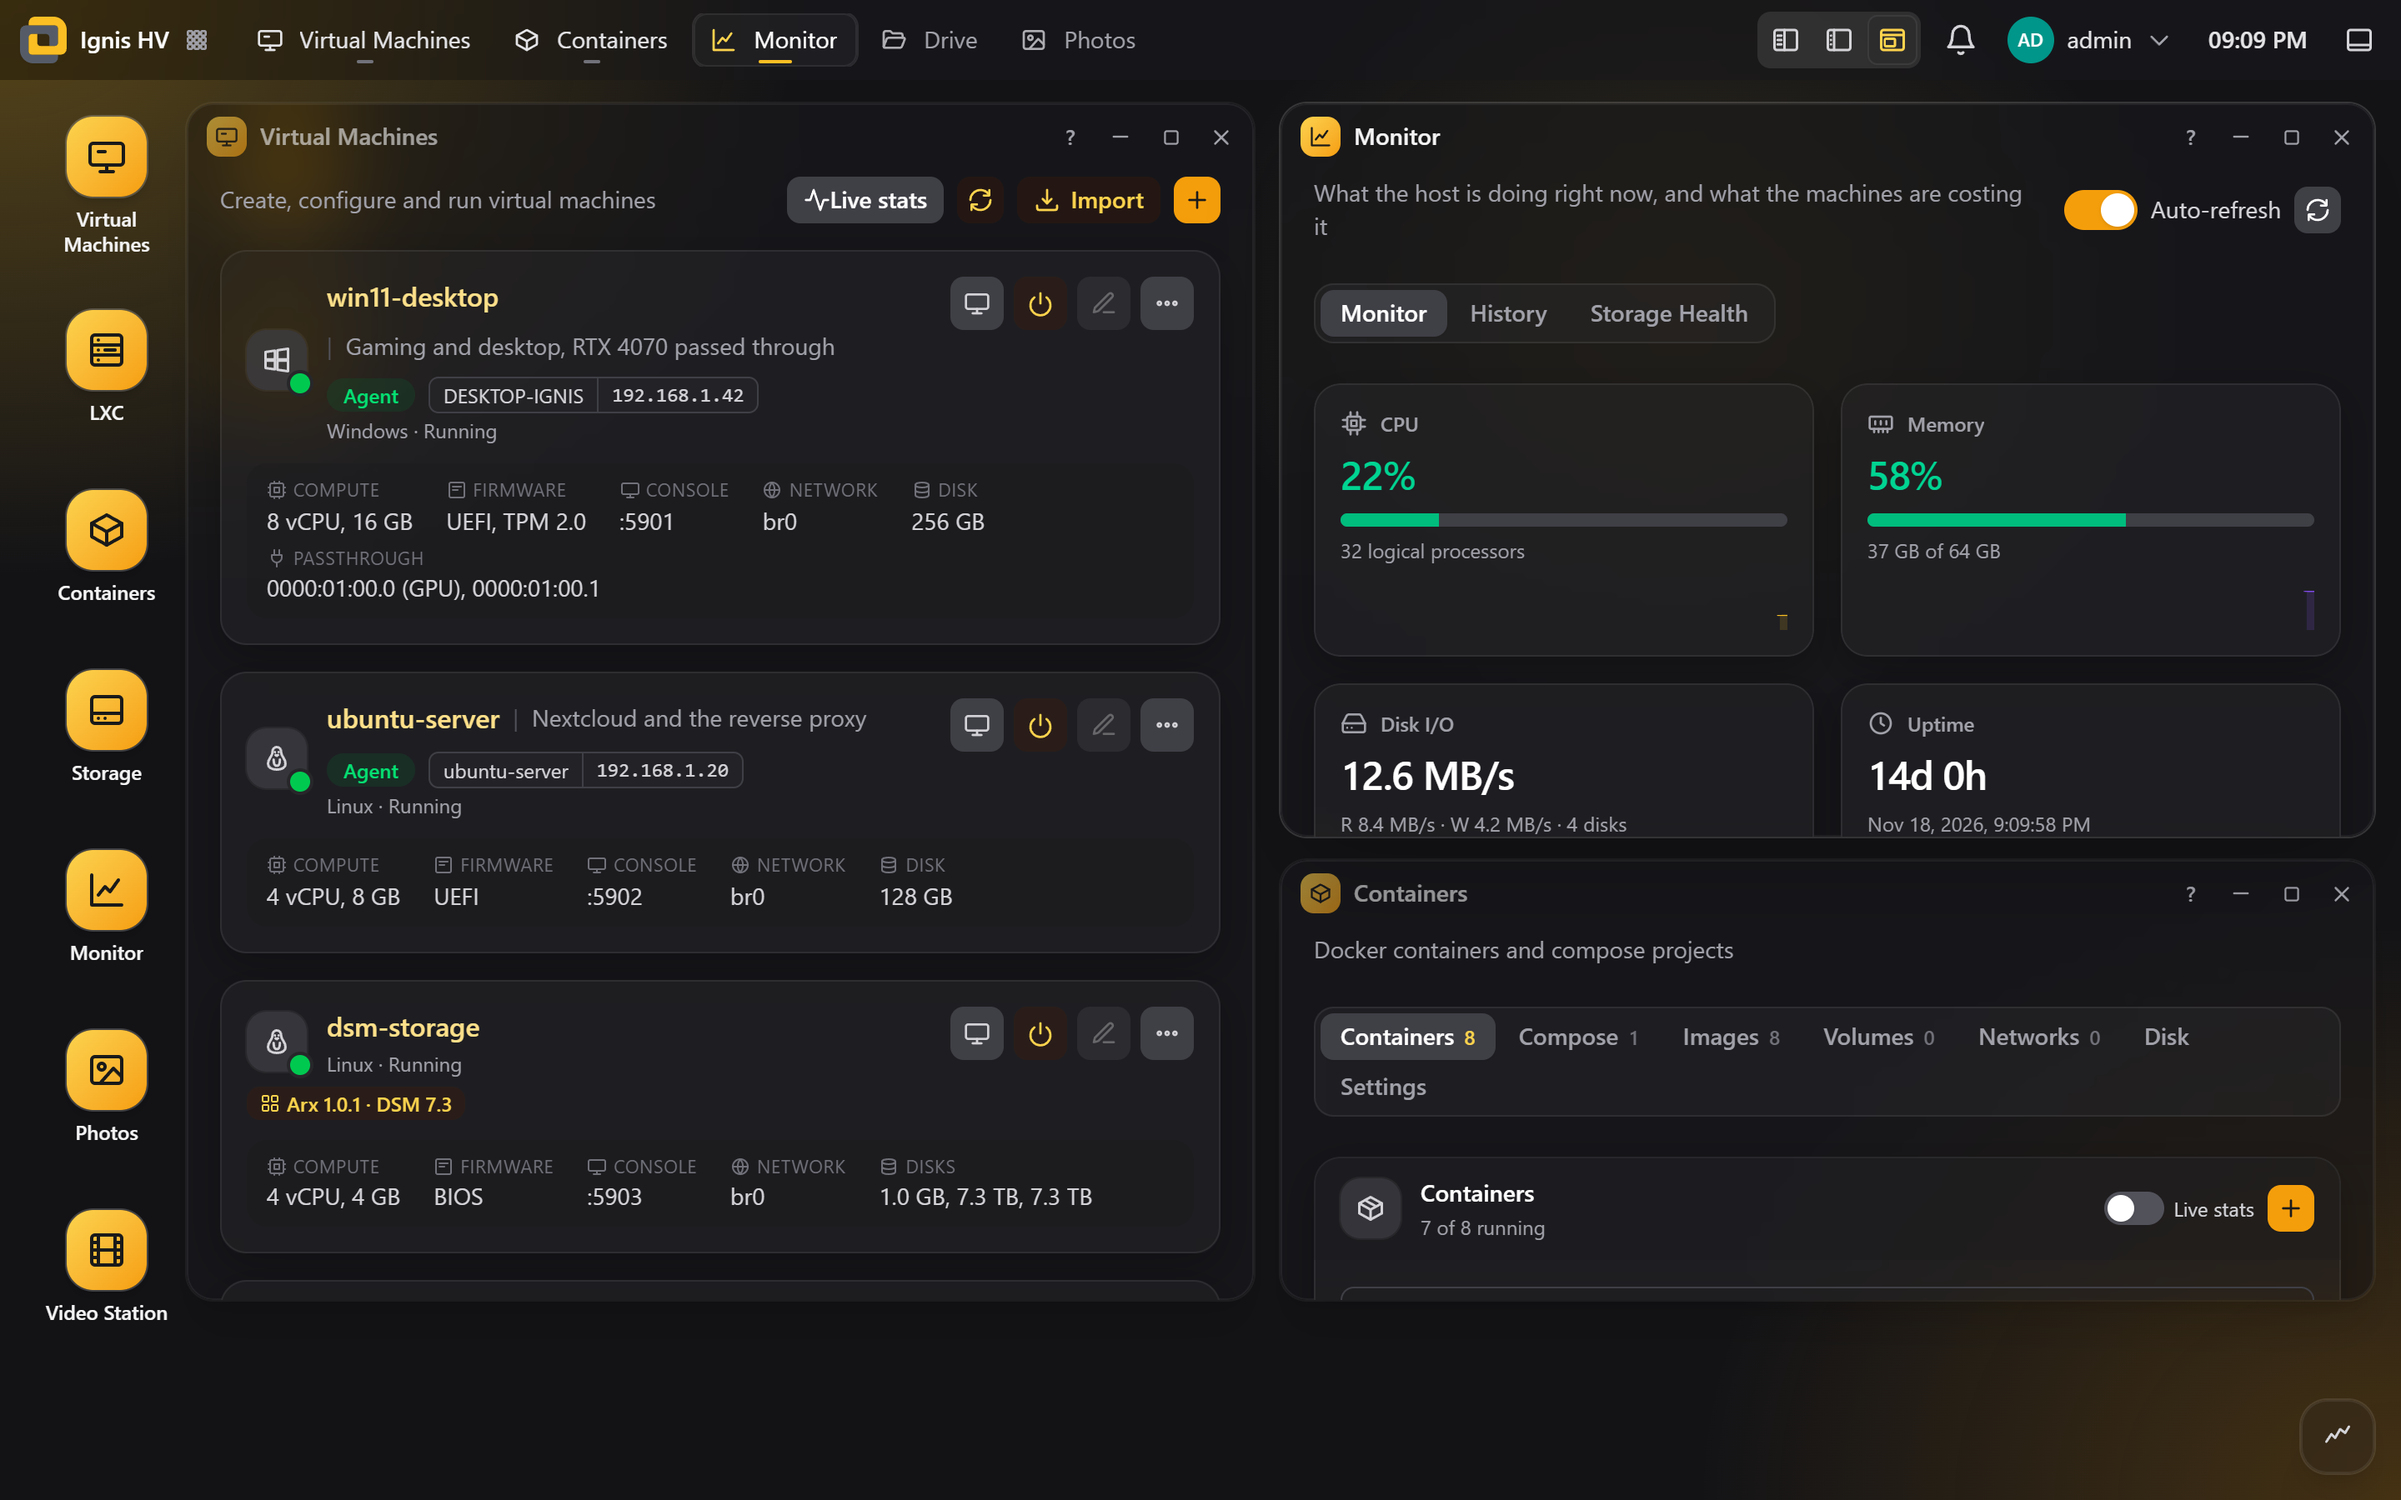
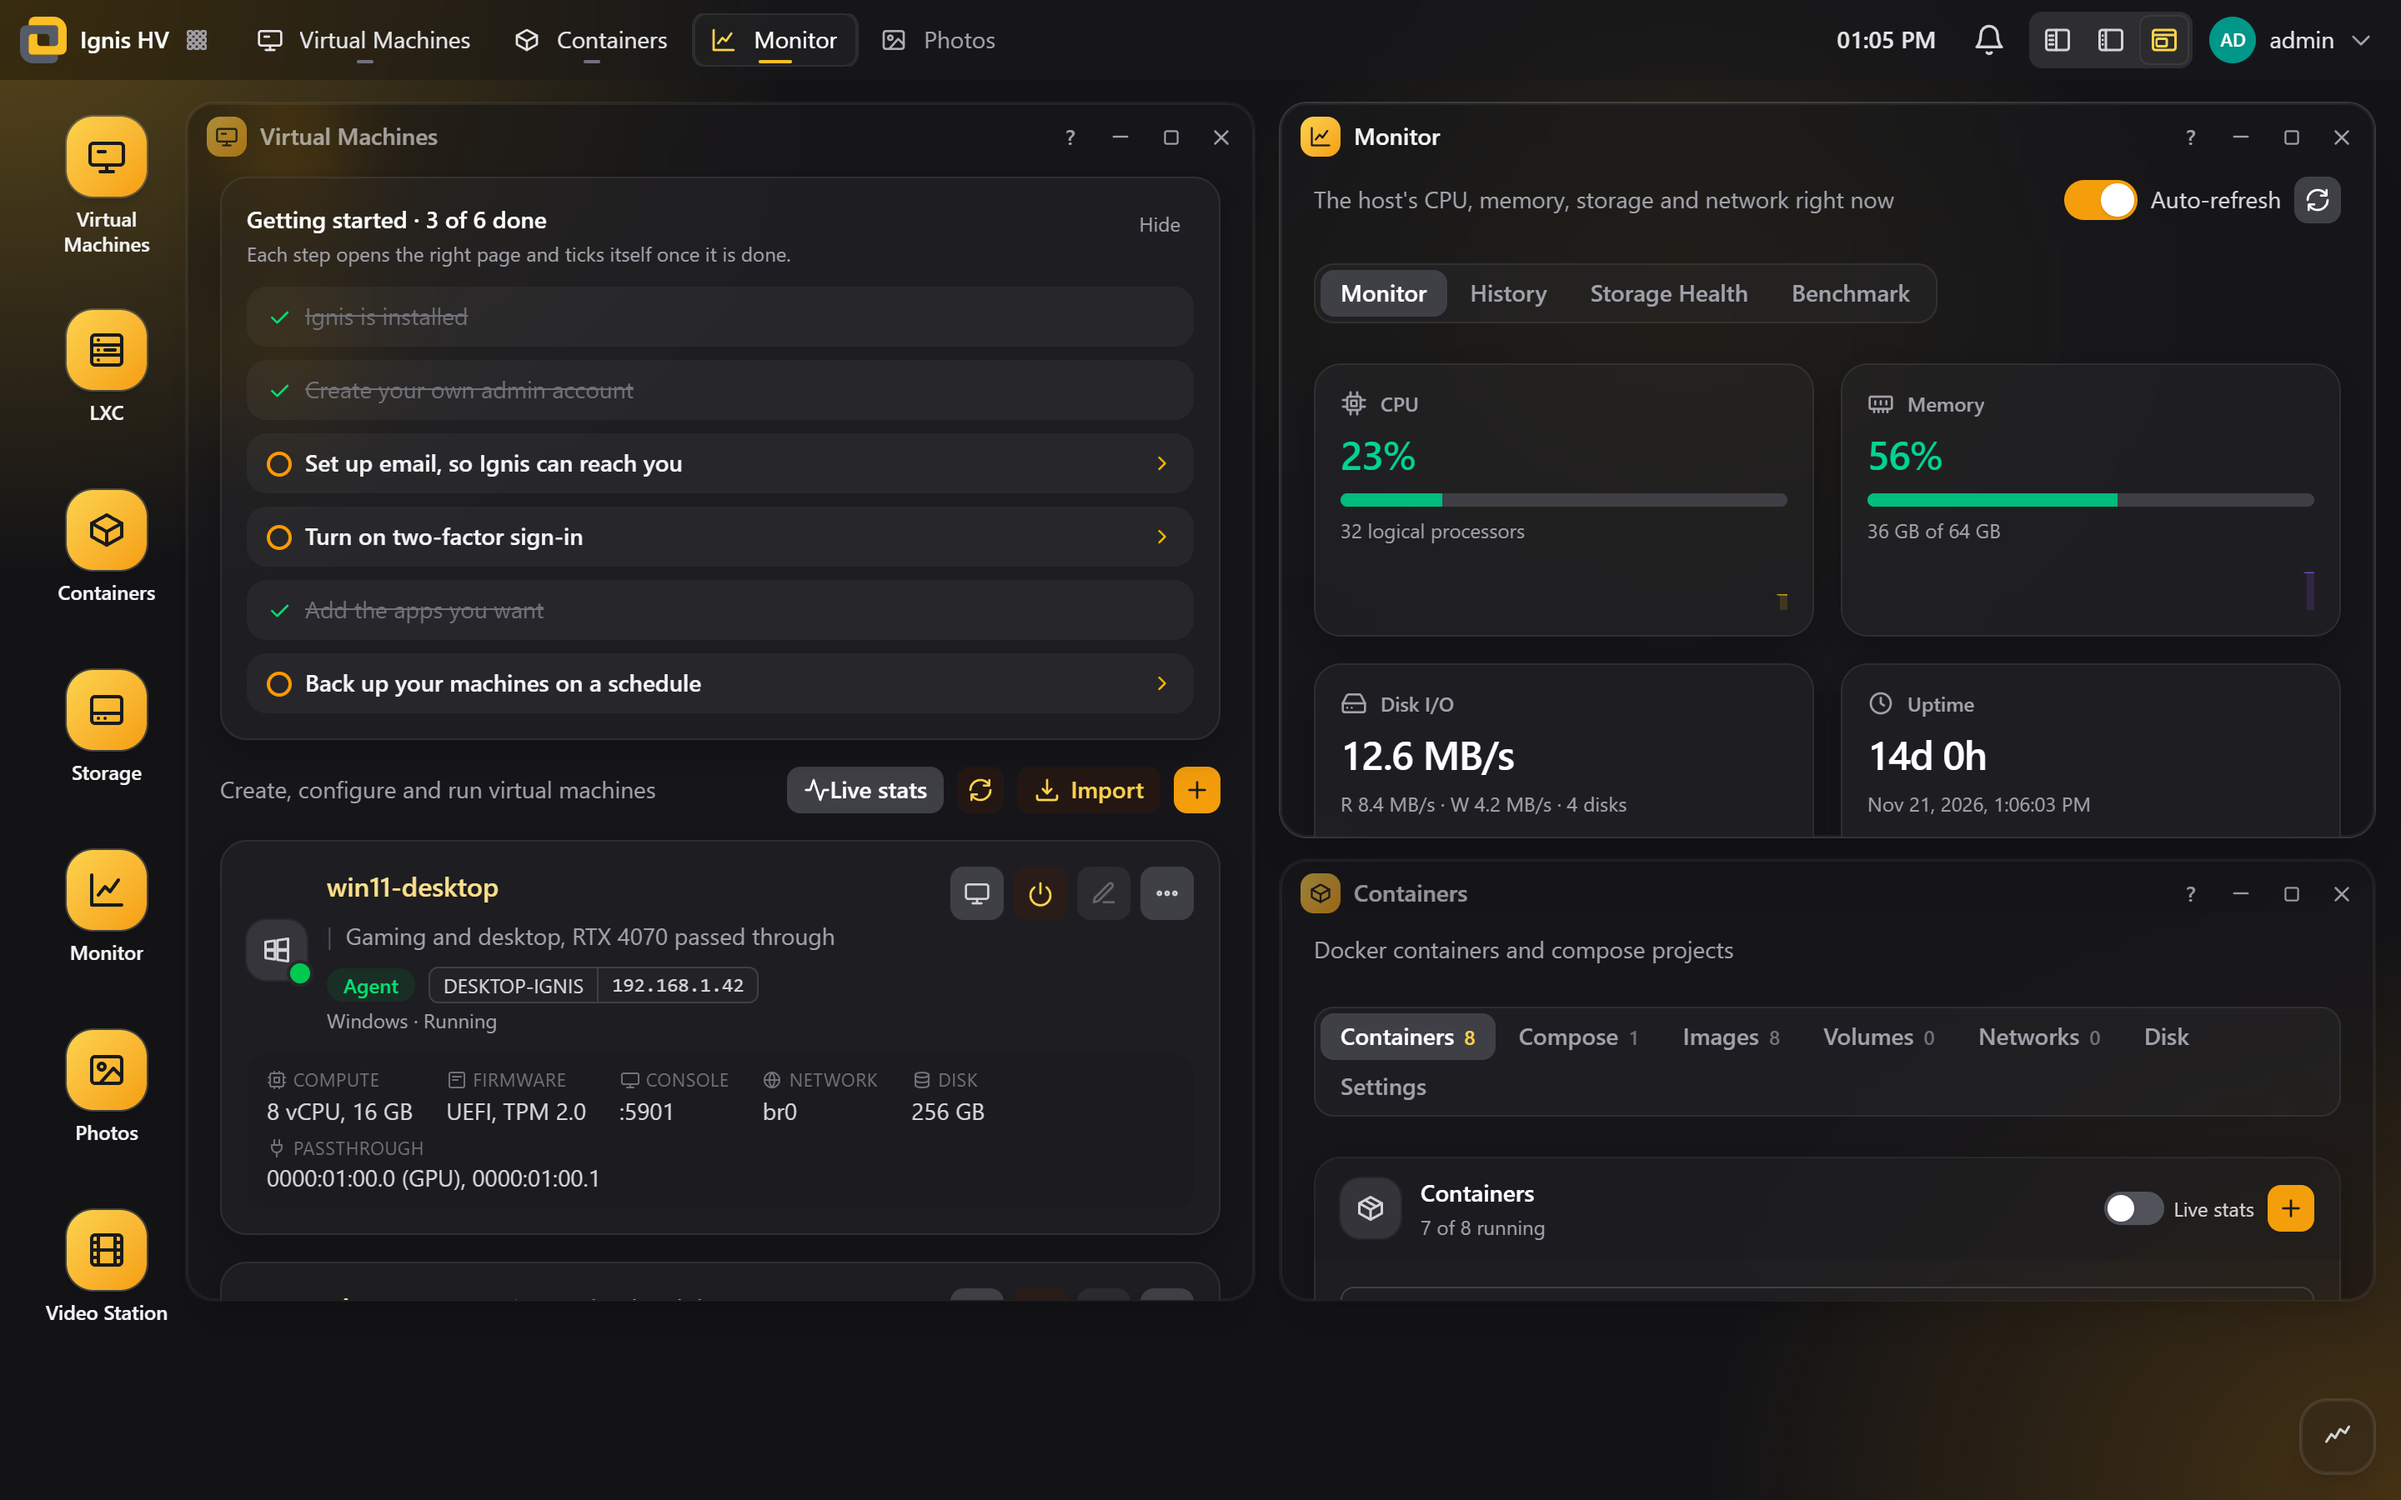
readme: screenshots of 2026-11-21, Surveillance streams, Windows Apps network switches, drives in Storage
The sidebar and page headers in the new frame (solid and glass alike), the
shared top bar, Surveillance's live grid that fits, Windows Apps with its
Network button, the Web Browser's settings and Drive inside Shares & Drive.

diff --git a/README.md b/README.md
@@ -83,7 +83,7 @@ Apps that belong together come as one package: **Web & Mail**, **Shares & Drive*
 | **Photos** | Your photos as a timeline and in albums, sorted by people, places and things. Edit and share them |
 | **Video Station** | Your movies and TV shows with posters, played in the browser. Also plays on TVs, consoles and Kodi |
 | **Audio Station** | Your music by album, artist, genre and folder, with playlists, favourites, lyrics and internet radio. Plays in the browser, in music apps that speak Subsonic, and on receivers, speakers and TVs |
-| **Surveillance** | Records your IP cameras, live view in a grid, motion events and playback. Can recognise people, vehicles, faces and number plates, and alert you |
+| **Surveillance** | Records your IP cameras (RTSP, or HTTP: MJPEG, snapshots and HLS), live view in a grid that fits your screen, motion events and playback. Can recognise people, vehicles, faces and number plates, and alert you. Each camera can also be passed on to Home Assistant, VLC or another recorder, at an address of its own that you can renew at any time |
 | **Download Station** | Downloads links, torrents and magnet links into a folder you choose |
 | **Web & Mail** | **Web Station** hosts your own websites and their subdomains with the newest PHP or one of the two before it, and databases, including WordPress and phpMyAdmin in one click, each with its own certificate, and a DNS server for your own domains that fills in its records by itself. **Mail Server** is email for your own domain, with a spam filter and help with the DNS settings, and **Webmail** reads it in the browser |
 | **VPN** | Reach your home network from anywhere with WireGuard, OpenVPN, IPsec or Tailscale, or send machines and containers through a VPN |
@@ -91,7 +91,7 @@ Apps that belong together come as one package: **Web & Mail**, **Shares & Drive*
 | **Game Servers** | Runs servers for Minecraft, Valheim, Factorio and about 145 more games, with a console, backups and timetables. Requires Docker |
 | **AI** | Runs language models on your own GPU, beside online services such as OpenAI, Anthropic and Gemini, all in one chat |
 | **Web Browser** | A browser that runs on Ignis and shows inside the page, with tabs and a toolbar like the browser you know. Open your router, cameras and other devices on your home network from anywhere, look something up while you work, and save downloads straight to a shared folder. You choose whether it may reach the internet, your home network or both |
-| **Windows Apps** | Runs Windows programs on Ignis and shows them in your browser, without a Windows licence. Each set of programs gets its own Windows with its own drive C:, and sees only the shared folders you allow, plus a folder of your own that all your programs share |
+| **Windows Apps** | Runs Windows programs on Ignis and shows them in your browser, without a Windows licence. Each set of programs gets its own Windows with its own drive C:, and sees only the shared folders you allow, plus a folder of your own that all your programs share. Per set, you choose whether it may reach the internet and your home network. Drop an installer or a file on the screen to install or upload it |
 | **Android Apps** | Runs Android apps on Ignis and shows them in your browser, each in a window of its own or as a whole Android screen. You choose Android with Google's apps or without. Requires the Graphics Runtime |
 | **Graphics Runtime** | The screen that Web Browser, Windows Apps and Android Apps run on (Display Runtime), using your graphics card when one is free, and video conversion on your GPU for the media apps with 3D graphics for Linux machines without passing a card through (Video Compute Runtime). Installed by itself with the apps that need it |
 | **DSM machines** | Sets up Synology DSM machines with the Arx loader and keeps the loader up to date |
@@ -129,7 +129,7 @@ Ignis keeps two things apart: **the system**, which each update replaces as a wh
 | **LXC** | Linux containers from ready images: start, stop, console, snapshots, backups and clones |
 | **Containers** | Run containers and compose projects, see their logs and usage, update and clean up |
 | **Network** | Networks for your machines, VLANs and bonds |
-| **Storage** | Disk images, ISOs, uploads and extra volumes, shown like a file manager. You choose how large an upload may be (4 GB unless you change it) |
+| **Storage** | Disk images, ISOs, uploads, extra volumes and the drives in your box, shown like a file manager. You choose how large an upload may be (4 GB unless you change it) |
 | **Schedules** | Timed start, shutdown, snapshot, backup, container and data check tasks, and the tasks your apps offer: website and mail backups, WordPress updates, downloads only at night, cameras on and off, and more |
 | **Passthrough** | Graphics cards, PCI and USB devices your machines can use |
 | **Monitor** | The host right now, its **History** over time, and **Storage Health** |
@@ -141,7 +141,7 @@ Ignis keeps two things apart: **the system**, which each update replaces as a wh
 
 Every page has a **?** button with help for that page.
 
-Pick the look you like from the account menu: a light or dark mode, an accent colour, a wallpaper (northern lights, mountains, waves, dunes and more, or a picture of your own) and either the classic layout with a sidebar or a **desktop** where every page opens in a window of its own, with a taskbar. Your language and a 12- or 24-hour clock are saved with your account. The account menu is also where you restart or shut down Ignis, if your account may. Settings are switches, and a short note at the bottom of the screen confirms what you saved. The address bar shows just Ignis's address, whatever page you are on.
+Pick the look you like from the account menu: a light or dark mode, an accent colour, a wallpaper (northern lights, mountains, waves, dunes and more, or a picture of your own) and either the classic layout with a sidebar or a **desktop** where every page opens in a window of its own, with a taskbar. Both layouts share one top bar, and the layout looks the same whether you choose solid or glass boxes. Your language and a 12- or 24-hour clock are saved with your account. The account menu is also where you restart or shut down Ignis, if your account may. Settings are switches, and a short note at the bottom of the screen confirms what you saved. The address bar shows just Ignis's address, whatever page you are on.
 
 ### 📸 A look inside
 
@@ -171,7 +171,7 @@ Pick the look you like from the account menu: a light or dark mode, an accent co
     <td width="50%"><img alt="Video Station: posters under Continue watching and Recently added" src="assets/screenshots/apps/video.png"><br><sub><b>Video Station</b>: your films and shows with posters, in the browser and on your TV</sub></td>
   </tr>
   <tr>
-    <td width="50%"><img alt="Surveillance: four cameras live in a grid" src="assets/screenshots/apps/surveillance.png"><br><sub><b>Surveillance</b>: live view, recordings and alerts for your IP cameras</sub></td>
+    <td width="50%"><img alt="Surveillance: four cameras live in a grid" src="assets/screenshots/apps/surveillance.png"><br><sub><b>Surveillance</b>: live view that fits your screen, recordings, alerts, and streams for other apps</sub></td>
     <td width="50%"><img alt="Drive: a folder of pictures as thumbnails" src="assets/screenshots/apps/drive.png"><br><sub><b>Drive</b>: your shared folders in the browser, with share links</sub></td>
   </tr>
   <tr>
@@ -192,7 +192,7 @@ Pick the look you like from the account menu: a light or dark mode, an accent co
   </tr>
   <tr>
     <td width="50%"><img alt="Web Browser settings: start page, downloads folder, the switches for the internet and the home network, and the screen" src="assets/screenshots/apps/browser.png"><br><sub><b>Web Browser</b>: a browser on Ignis, inside the page, with tabs; you choose what it may reach and where downloads go</sub></td>
-    <td width="50%"><img alt="Windows Apps: two bottles, each with its drives and buttons" src="assets/screenshots/apps/winapps.png"><br><sub><b>Windows Apps</b>: Windows programs in your browser, each set in a bottle that sees only the folders you allow</sub></td>
+    <td width="50%"><img alt="Windows Apps: two bottles, each with its drives and buttons, one without internet" src="assets/screenshots/apps/winapps.png"><br><sub><b>Windows Apps</b>: Windows programs in your browser, each set in a bottle that sees only the folders and networks you allow</sub></td>
   </tr>
 </table>
 
